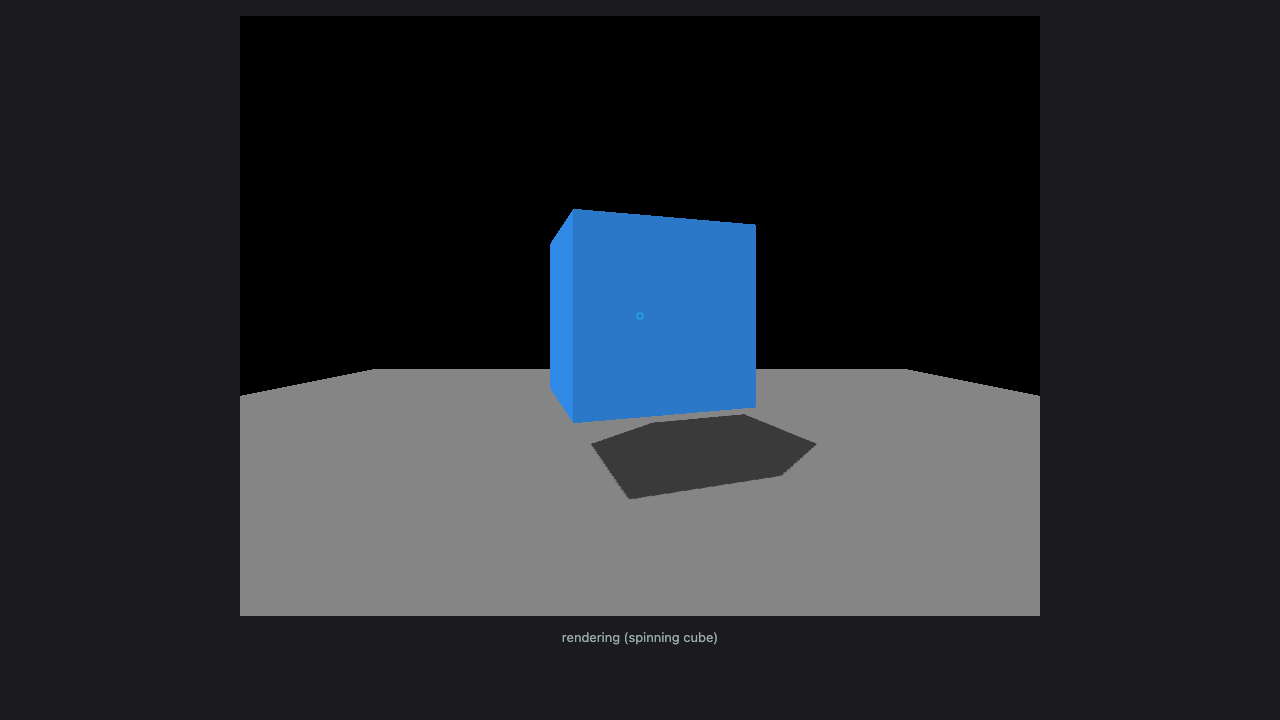
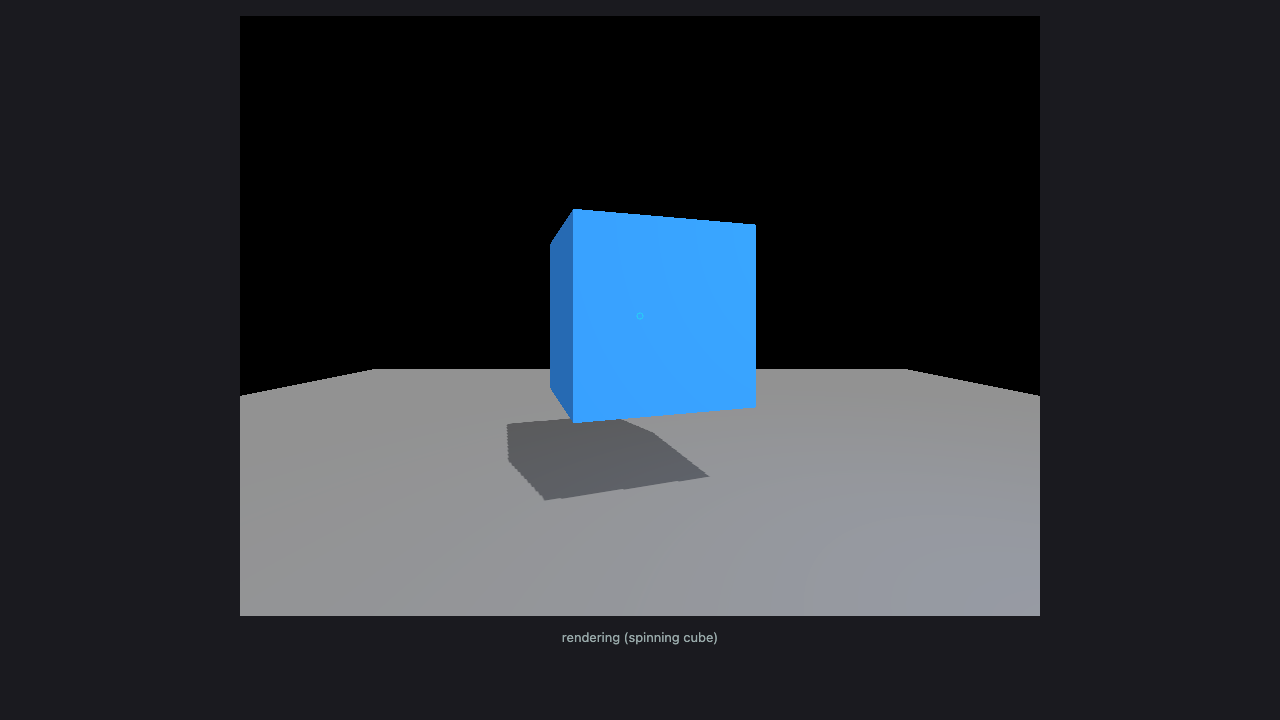
docs: slam hydrated from published tarball; virocore-web reconciled
Generated with [Devin](https://devin.ai)

Changed region(s): [[0.375, 0.275, 0.6562, 0.7028], [0.5625, 0.6722, 0.8125, 0.8556]]

diff --git a/docs/handoffs/2026-09-25-viro-3.0.1-phase0-inventory.md b/docs/handoffs/2026-09-25-viro-3.0.1-phase0-inventory.md
@@ -226,7 +226,7 @@ isolated it to `ARScene.java`; grep showed the duplicated members.
   `8b5abcc3` era (rebuilt after the demo-light fix), output
   `wasm/products/build/`:
   - `viro-web.js` sha256 `023747e1…40daaf`
-  - `viro-web.wasm` sha256 `c7820a61…dcb3` — `destroyViroScene`
+  - `viro-web.wasm` sha256 `fe50d99d…d755` — `destroyViroScene`
     confirmed in the export list via `strings`
   - `viro-web.data` sha256 `a20c0483…529baa`
   - `index.html` test harness served at `http://localhost:8087`
@@ -250,6 +250,7 @@ isolated it to `ARScene.java`; grep showed the duplicated members.
 | Browser harness smoke | **pass** — headless Chromium (playwright-core, SwiftShader): WASM inits, demo cube renders lit + shadowed + spinning, `destroyViroScene` → `initViroScene` → rebuild re-renders; only console error is a benign favicon 404. Evidence: `docs/handoffs/evidence/viro-301-wasm-smoke/` |
 | viro `npm run tsc` | **pass** — sibling packages linked (see "Phase-1 dependency resolution") |
 | viro `npm test` (jest) | **pass** — 372/372, 38 suites |
+| viro-web-renderer `npm test` | **pass** — incl. 126 wasm bindings + 28-member tracking engine (frame → pose) |
 | Physical device lanes | not run |
 
 ### Phase-1 dependency resolution (tsc + tests now green)
@@ -267,9 +268,21 @@ isolated it to `ARScene.java`; grep showed the duplicated members.
   resolves deps relative to the *realpath* of a linked package, not the
   linker. Without it `HybridObject` silently failed under `skipLibCheck`
   and `CanvasSurface` lost `dispose`.
-- `tinyvio` still absent — only needed by `scripts/sync-harness-assets.sh`
-  (web-harness SLAM wasm) and `viro-web-renderer`'s `copy-slam`. Not a tsc
-  blocker; note before any web-AR acceptance.
+- `tinyvio` source repo is private and not needed: the published
+  `@reactvision/viro-web-renderer@1.0.0` tarball **ships the built engine**
+  (`slam/tinyvio-slam.{js,wasm}`). Hydrated into `~/viro-web-renderer/slam/`
+  — package test now passes the tracking-engine checks (28 members driven,
+  configures + processes a frame + reports a pose).
+  - Provenance / pinned checksums: `tinyvio-slam.js` sha256
+    `aede7070…fc2a40` (41K), `tinyvio-slam.wasm` sha256 `78f1942e…729c3`
+    (260K), extracted from the published tarball.
+  - New `npm run hydrate-slam` (commit on `moyo/hydrate-slam` in
+    `~/viro-web-renderer`) re-downloads the pinned release, verifies those
+    checksums, installs — the contributor path. `copy-slam` remains the
+    maintainer path for a sibling tinyvio source checkout.
+  - `simengangstad/TinyVIO` is a **name collision** — bare-metal MCU VIO
+    (i.MX RT1176, LARVIO/MSCKF), no wasm/web output. NOT the same project;
+    do not port it.
 - IDE may flag `moduleResolution: "node"`/`baseUrl` in `viro/tsconfig.json`
   as deprecated-in-TS-7 errors — that's the editor's bundled TypeScript
   (6.x), not the project's pinned 5.7.3 (`npm run tsc` exits 0). File is
@@ -289,9 +302,12 @@ None — `tsc` exits 0 and jest is 372/372.
 
 ### Still open
 
-- `tinyvio` sibling checkout still absent (web-AR harness only).
-- `virocore-web` (`feat-web-platform`) reconciliation with the npm
-  `viro-web-renderer` still undecided — likely same codebase grown locally.
+- `virocore-web` (`feat-web-platform`) reconciled: the whole web C API is
+  already inside `upgrade/virocore-3.0.1` (merge-base `1a0ca393`). The only
+  gaps were `6c9d3eb9`'s three-point demo lighting (ported as `b567a92b`)
+  and an **uncommitted** `viroSetFloorVisible` AR-floor-hide change still
+  sitting in that checkout's working tree — port it when the web-AR lane
+  resumes (it hides the demo floor over the camera feed).
 - visionOS / PICO / Quest lanes unbuilt for this merge.
 
 ### WASM lifecycle fix — done in `6acc6ee6`
@@ -317,8 +333,10 @@ Two harness defects found by actually opening the page in headless Chromium:
   `destroyViroScene`/re-init on the same module instance.
 - `buildCubeScene` used Blinn/Lambert materials but `buildEmptyScene`
   deliberately creates no lights (bridge parity) — the demo rendered pure
-  black. The demo scene now adds its own ambient + shadow-casting
-  directional light; production bridge behaviour unchanged.
+  black. The demo scene now supplies its own lights; `b567a92b` adopted
+  feat-web-platform's three-point rig (ambient + shadowed key + omni fill,
+  intensities tuned so lit faces cross the bloom threshold and exercise
+  the bloom pass). Production bridge behaviour unchanged.
 - Smoke script + screenshots (cube spinning across frames, then re-init
   rendering identically) persisted in
   `docs/handoffs/evidence/viro-301-wasm-smoke/`. Script:
@@ -329,5 +347,6 @@ Two harness defects found by actually opening the page in headless Chromium:
 1. Quest/PICO/visionOS device lanes against the rebuilt AAR — the merge has
    no device evidence yet; Quest 3S (`340YC10GC3014S`) is the natural first
    target since the Rive panel path was already accepted there.
-2. `tinyvio` — obtain the repo or record it as an explicit gap; needed for
-   web-AR (SLAM) acceptance, not for the base browser lane.
+2. `tinyvio` — resolved via the published 1.0.0 tarball; `hydrate-slam`
+   covers contributors. Source access only needed if we ever modify the
+   tracker itself — then ask the renderer author.
